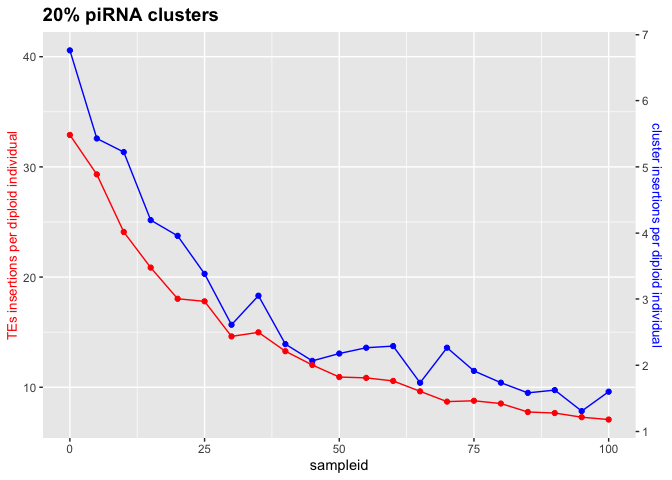
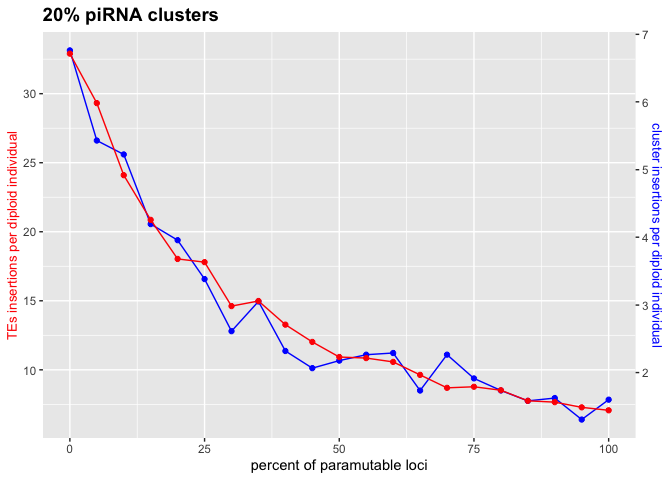
Label fix

diff --git a/Simulation/2022_08_31_Simulation_4_clusters_paramutations.md b/Simulation/2022_08_31_Simulation_4_clusters_paramutations.md
@@ -28,6 +28,7 @@ Visualization:
 
 ``` r
 setwd("/Users/ascarpa/Paramutations_TEs/Simulation/Raw")
+
 df4_05<-read.table("2022_08_31_Simulation_4_05", fill = TRUE, sep = "\t")
 df4_10<-read.table("2022_08_31_Simulation_4_10", fill = TRUE, sep = "\t")
 df4_20<-read.table("2022_08_31_Simulation_4_20", fill = TRUE, sep = "\t")
@@ -82,6 +83,7 @@ g4_05<-ggplot(df4_05_2, aes(x=sampleid))+
     name = "TEs insertions per diploid individual",
     sec.axis = sec_axis(~./coeff_05, name="cluster insertions per diploid individual")
   )+
+  xlab("percent of paramutable loci")+
   theme(legend.position="none",
         plot.title = element_text(size=14, face="bold"),
         axis.title.y = element_text(color = "red", size=10),
@@ -105,6 +107,7 @@ g4_10<-ggplot(df4_10_2, aes(x=sampleid))+
     name = "TEs insertions per diploid individual",
     sec.axis = sec_axis(~./coeff_10, name="cluster insertions per diploid individual")
   )+
+  xlab("percent of paramutable loci")+
   theme(legend.position="none",
         plot.title = element_text(size=14, face="bold"),
         axis.title.y = element_text(color = "red", size=10),
@@ -117,7 +120,7 @@ plot(g4_10)
 ![](2022_08_31_Simulation_4_clusters_paramutations_files/figure-gfm/unnamed-chunk-2-2.png)<!-- -->
 
 ``` r
-coeff_20=6
+coeff_20=4.9
 g4_20<-ggplot(df4_20_2, aes(x=sampleid))+
   geom_point(aes(y=mean_avcli*coeff_20), color="blue")+
   geom_line(aes(y=mean_avcli*coeff_20), color="blue")+
@@ -128,6 +131,7 @@ g4_20<-ggplot(df4_20_2, aes(x=sampleid))+
     name = "TEs insertions per diploid individual",
     sec.axis = sec_axis(~./coeff_20, name="cluster insertions per diploid individual")
   )+
+  xlab("percent of paramutable loci")+
   theme(legend.position="none",
         plot.title = element_text(size=14, face="bold"),
         axis.title.y = element_text(color = "red", size=10),
